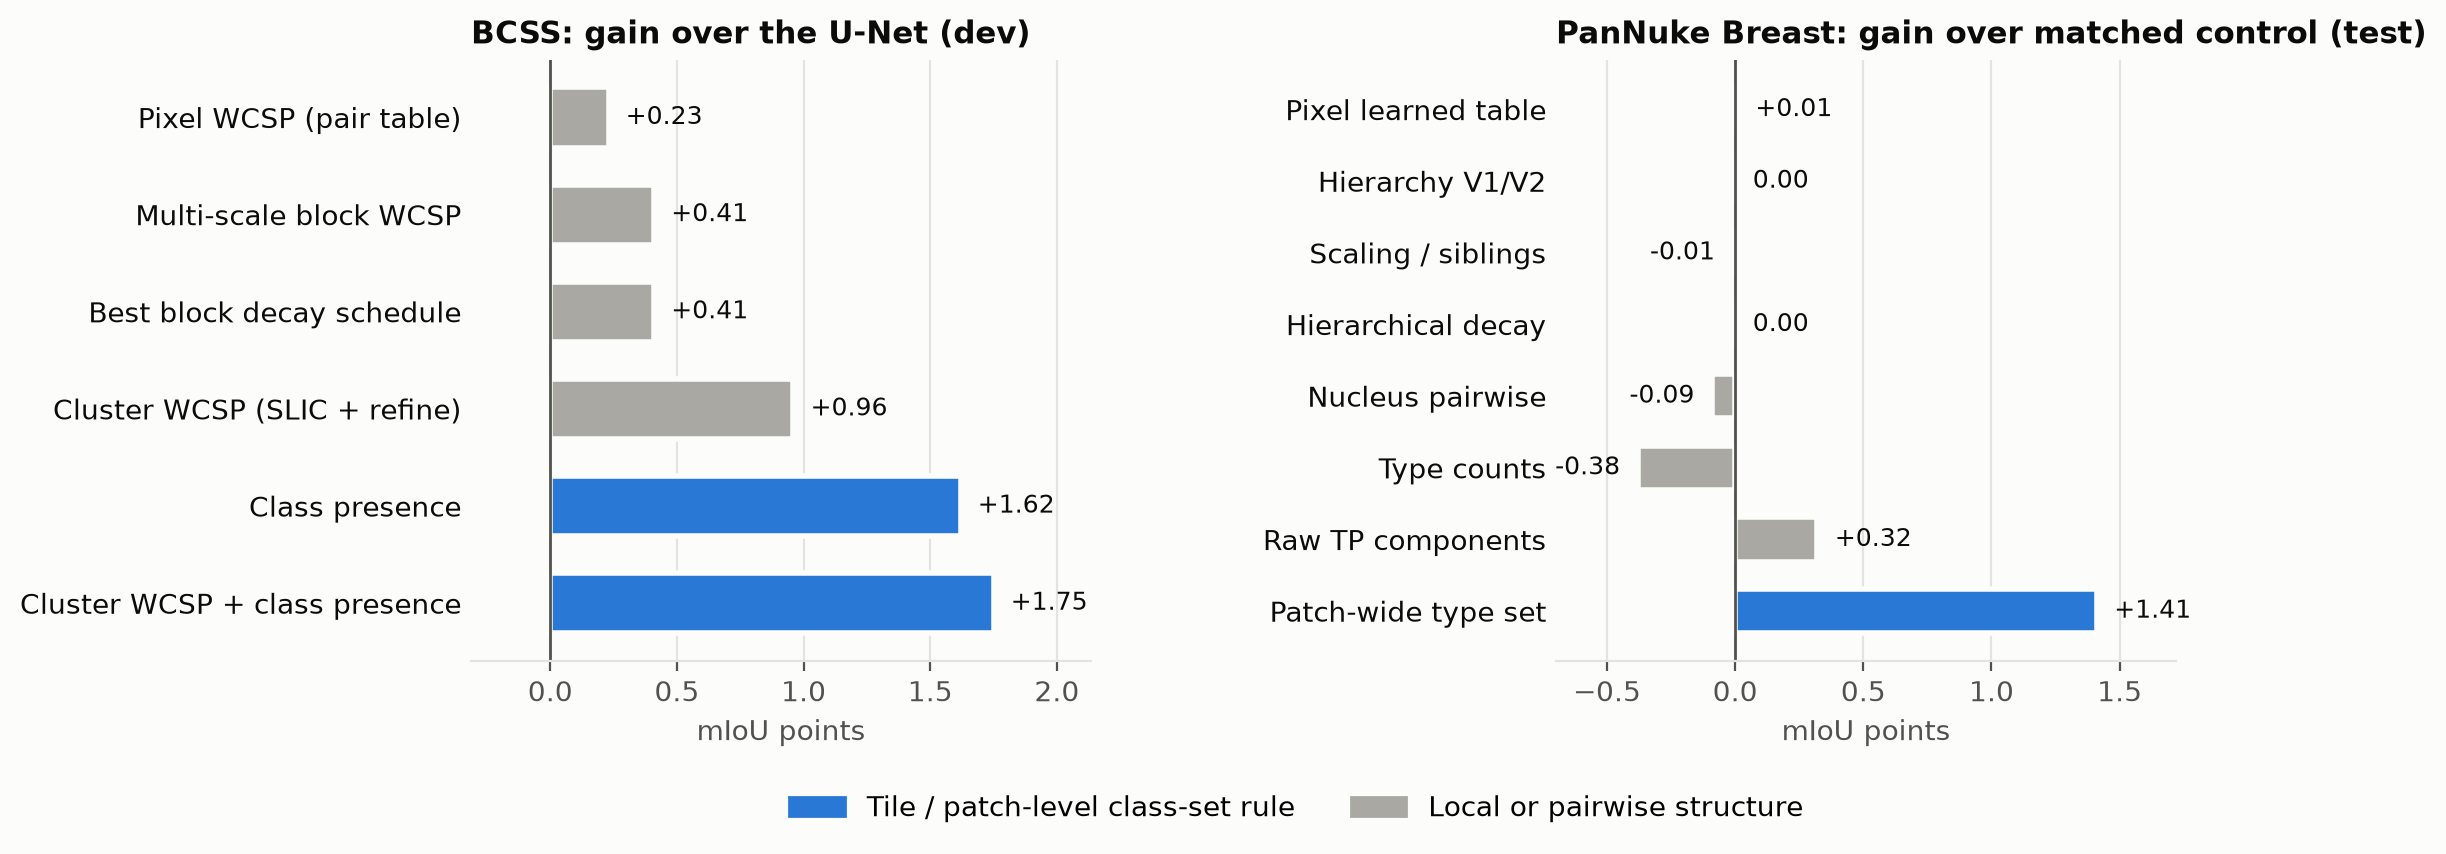
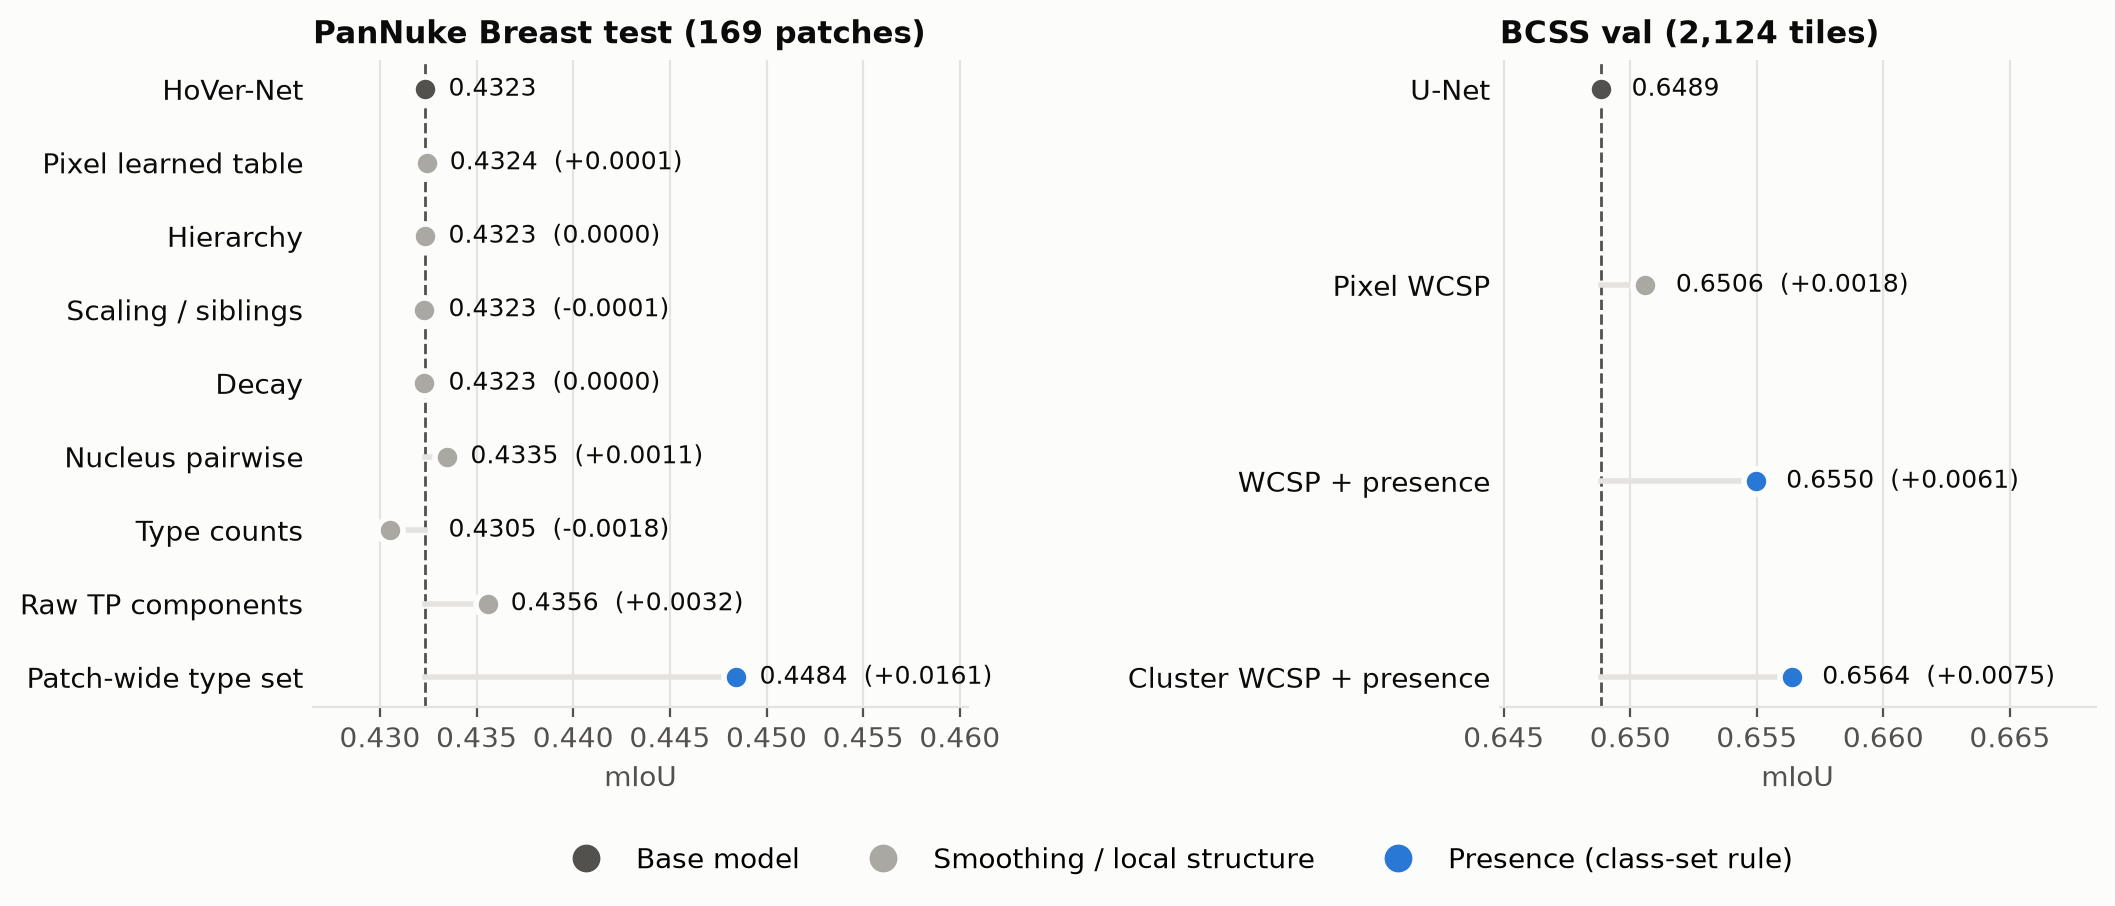
Deliverable 7: PanNuke first, raw mIoU scale, exact values from evaluation files
Claude-Session: https://claude.ai/code/session_01CTh5Qud5ucWXzk6pK8w2Lo

diff --git a/deliverables/figures_20261123/make_figures.py b/deliverables/figures_20261123/make_figures.py
@@ -21,50 +21,47 @@ plt.rcParams.update({
 })
 
 
-def gain_panel(ax, title, rows, xlabel):
-    """rows: (label, gain in mIoU points, is_set_rule). Horizontal bars from 0."""
-    labels = [r[0] for r in rows][::-1]
-    values = [r[1] for r in rows][::-1]
-    colors = [SET_RULE if r[2] else LOCAL for r in rows][::-1]
-    bars = ax.barh(labels, values, color=colors, height=0.62, edgecolor=SURFACE, linewidth=2)
-    ax.axvline(0, color=MUTED, linewidth=1)
+def miou_panel(ax, title, base_label, base, rows):
+    """Dot plot on the raw mIoU scale; the base model is the first dot and a dashed line."""
+    rows = [(base_label, base, None)] + rows
+    ys = list(range(len(rows)))[::-1]
+    ax.axvline(base, color=MUTED, linewidth=1, linestyle="--", zorder=1)
+    for y, (label, v, rule) in zip(ys, rows):
+        color = MUTED if rule is None else (SET_RULE if rule else LOCAL)
+        ax.plot([base, v], [y, y], color=GRID, linewidth=2, zorder=1)
+        ax.plot(v, y, "o", color=color, markersize=9, markeredgecolor=SURFACE, markeredgewidth=2, zorder=3)
+        d = v - base
+        text = f"{v:.4f}" if rule is None else f"{v:.4f}  ({'0.0000' if abs(d) < 5e-5 else f'{d:+.4f}'})"
+        ax.text(max(v, base) + 0.0012, y, text, va="center", color=INK, fontsize=9)
+    ax.set_yticks(ys, [r[0] for r in rows])
+    ax.tick_params(axis="y", length=0)
+    lo, hi = min(r[1] for r in rows), max(r[1] for r in rows)
+    ax.set_xlim(lo - 0.004, hi + 0.012)
     ax.grid(axis="x", color=GRID, linewidth=0.8)
     ax.set_axisbelow(True)
-    ax.tick_params(axis="y", length=0)
-    lo, hi = min(0, min(values)), max(values)
-    ax.set_xlim(lo - 0.15 * (hi - lo) - 0.05, hi * 1.22)
-    for bar, v in zip(bars, values):
-        ax.text(v + (0.03 if v >= 0 else -0.03) * (hi - lo + 0.5), bar.get_y() + bar.get_height() / 2,
-                ("0.00" if abs(v) < 0.005 else f"{v:+.2f}"), va="center", ha="left" if v >= 0 else "right", color=INK, fontsize=9)
+    ax.set_xlabel("mIoU")
     ax.set_title(title, loc="left", color=INK, fontsize=11, fontweight="bold")
-    ax.set_xlabel(xlabel)
 
 
 def fig_gains():
-    bcss = [  # dev, 185 tiles, gain over the U-Net (0.7067)
-        ("Pixel WCSP (pair table)", 0.23, False),
-        ("Multi-scale block WCSP", 0.41, False),
-        ("Best block decay schedule", 0.41, False),
-        ("Cluster WCSP (SLIC + refine)", 0.96, False),
-        ("Class presence", 1.62, True),
-        ("Cluster WCSP + class presence", 1.75, True),
-    ]
-    pannuke = [  # Breast test, 169 patches, gain over each family's matched control
-        ("Pixel learned table", 0.01, False),
-        ("Hierarchy V1/V2", 0.00, False),
-        ("Scaling / siblings", -0.01, False),
-        ("Hierarchical decay", 0.00, False),
-        ("Nucleus pairwise", -0.09, False),
-        ("Type counts", -0.38, False),
-        ("Raw TP components", 0.32, False),
-        ("Patch-wide type set", 1.41, True),
-    ]
-    fig, axes = plt.subplots(1, 2, figsize=(11, 3.9), gridspec_kw={"wspace": 0.75})
-    gain_panel(axes[0], "BCSS: gain over the U-Net (dev)", bcss, "mIoU points")
-    gain_panel(axes[1], "PanNuke Breast: gain over matched control (test)", pannuke, "mIoU points")
-    handles = [plt.Rectangle((0, 0), 1, 1, color=SET_RULE), plt.Rectangle((0, 0), 1, 1, color=LOCAL)]
-    fig.legend(handles, ["Tile / patch-level class-set rule", "Local or pairwise structure"],
-               loc="lower center", ncol=2, frameon=False, bbox_to_anchor=(0.5, -0.13))
+    # exact values: BCSS runs/*/val/summary.csv; PanNuke organ_wcsp/breast/evaluation.json (branch organ-wcsp-breast)
+    bcss = [("Pixel WCSP", 0.650602, False),
+            ("WCSP + presence", 0.654962, True),
+            ("Cluster WCSP + presence", 0.656387, True)]
+    pannuke = [("Pixel learned table", 0.432412, False),
+               ("Hierarchy", 0.432328, False),
+               ("Scaling / siblings", 0.432258, False),
+               ("Decay", 0.432305, False),
+               ("Nucleus pairwise", 0.433482, False),
+               ("Type counts", 0.430543, False),
+               ("Raw TP components", 0.435567, False),
+               ("Patch-wide type set", 0.448441, True)]
+    fig, axes = plt.subplots(1, 2, figsize=(11.5, 4.2), gridspec_kw={"wspace": 0.85, "width_ratios": [1.1, 1]})
+    miou_panel(axes[0], "PanNuke Breast test (169 patches)", "HoVer-Net", 0.432348, pannuke)
+    miou_panel(axes[1], "BCSS val (2,124 tiles)", "U-Net", 0.648852, bcss)
+    handles = [plt.Line2D([], [], marker="o", linestyle="", color=c, markersize=9) for c in (MUTED, LOCAL, SET_RULE)]
+    fig.legend(handles, ["Base model", "Smoothing / local structure", "Presence (class-set rule)"],
+               loc="lower center", ncol=3, frameon=False, bbox_to_anchor=(0.5, -0.12))
     fig.savefig(OUT / "gains_both_datasets.png", dpi=200, bbox_inches="tight")
 
 

diff --git a/deliverables/deliverable_7.md b/deliverables/deliverable_7.md
@@ -6,13 +6,14 @@
 
 ## 1. What we've tried
 
-Gain in mIoU points over the base model, on held-out data.
+mIoU on held-out data; change vs. the base model in brackets. Sources: PanNuke `organ_wcsp/breast/evaluation.json` (branch `organ-wcsp-breast`); BCSS val run summaries.
 
-| Method | BCSS (val) | PanNuke (Breast test) |
+| Method | PanNuke (Breast test) | BCSS (val) |
 |---|:---:|:---:|
-| Smoothing (WCSP, blocks, decay) | +0.2 | ≈ 0 |
-| **Presence rule** | **+0.6** | **+1.4** |
-| **Presence + cluster smoothing** | **+0.75** | — |
+| Base model | 0.4323 (HoVer-Net) | 0.6489 (U-Net) |
+| Smoothing (WCSP, blocks, decay) | 0.4324 (+0.0001) | 0.6506 (+0.0018) |
+| **Presence rule** | **0.4484 (+0.0161)** | **0.6550 (+0.0061)** |
+| **Presence + cluster smoothing** | — | **0.6564 (+0.0075)** |
 
 ![Gains](figures_20261123/gains_both_datasets.png)
 
@@ -36,7 +37,7 @@ On Ryan's full-resolution U-Net, 185 dev tiles, with no training.
 | Share of wrong pixels that are **grouping** mistakes | **48%** |
 | Share that are **labeling** mistakes | **52%** |
 | Pieces per true region | **~10** (should be 1) |
-| Presence + smoothing on this model | 0.6524 → **0.6610** (+0.9) |
+| Presence + smoothing on this model | 0.6524 → **0.6610** (+0.0086) |
 | If we knew the **true classes** per tile (upper bound) | — |
 | If every true region were **coherent** (upper bound) | — |
 
